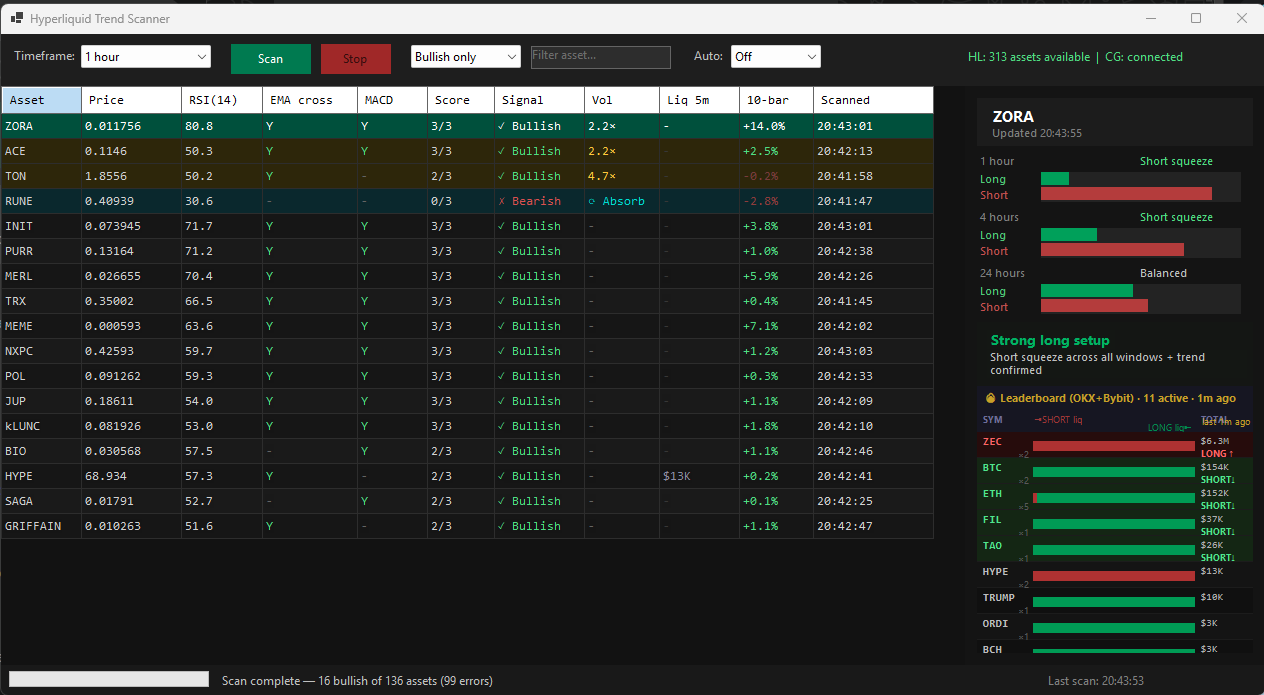
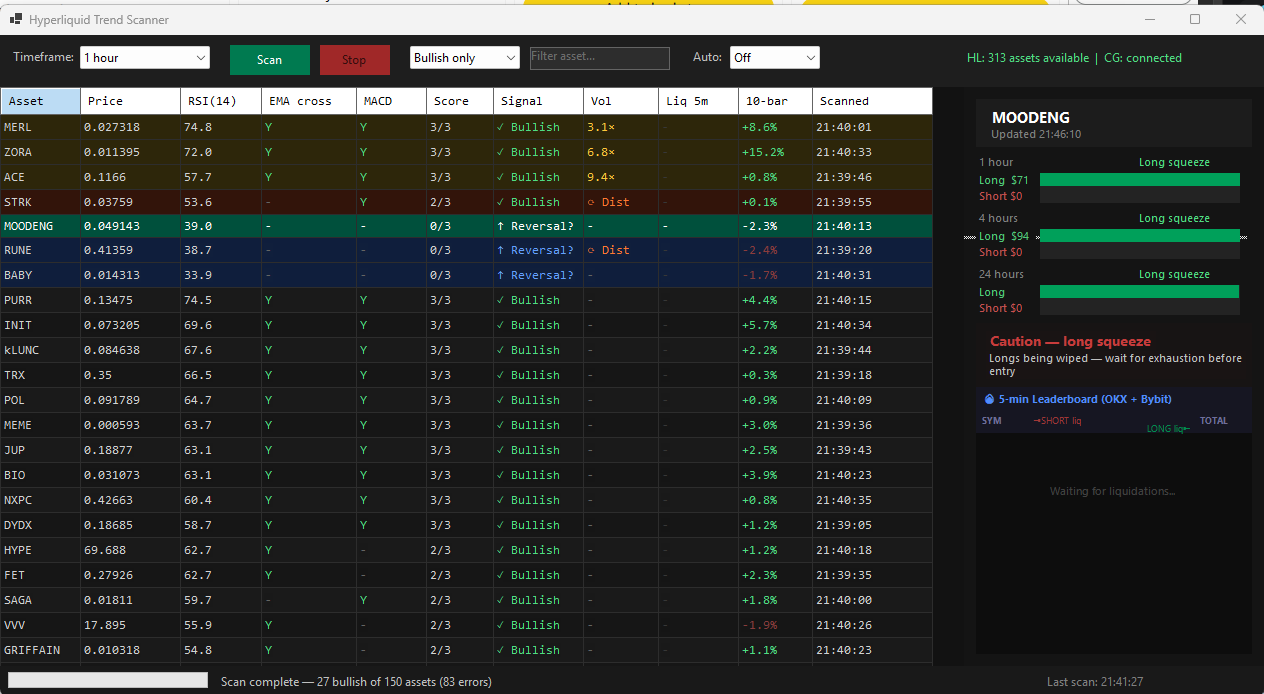
Add Reversal Setup signal for oversold assets showing early recovery
Detects assets that are beaten down (RSI < 40, 10-bar trend negative)
but showing early momentum shift (RSI slope flattening, last candle green).
Surfaces as blue "↑ Reversal?" signal in the Bullish only filter.

diff --git a/HyperliquidScanner/Services/TrendAnalyser.cs b/HyperliquidScanner/Services/TrendAnalyser.cs
@@ -164,6 +164,24 @@ namespace HyperliquidScanner.Services
                 }
             }
 
+            // ── Reversal setup: oversold but momentum turning ─────────────────
+            // Conditions (all must hold):
+            //   1. RSI oversold (< 40) — beaten down
+            //   2. RSI slope turning positive — momentum shifting up
+            //   3. 10-bar trend negative — asset has been falling (context: not just pausing)
+            //   4. Last complete candle is green — early price recovery
+            // Not flagged if already bullish (it would be redundant).
+            if (!result.IsBullish && quotes.Count >= 12)
+            {
+                var lastComplete = quotes[^2];
+                var lastCandleGreen = lastComplete.Close > lastComplete.Open;
+
+                result.IsReversalSetup = result.Rsi < 40m
+                                      && result.RsiSlope > -1m
+                                      && result.RecentTrendPct < -1.5m
+                                      && lastCandleGreen;
+            }
+
             return result;
         }
     }

diff --git a/HyperliquidScanner/Forms/MainForm.cs b/HyperliquidScanner/Forms/MainForm.cs
@@ -460,7 +460,7 @@ namespace HyperliquidScanner.Forms
             // Base filter — directional alerts punch through their matching filter only
             var toShow = _filterCombo.SelectedIndex switch
             {
-                1 => _lastResults.Where(r => r.IsBullish || r.IsAbsorption || r.IsClimax),  // Bullish + reversal-up signals
+                1 => _lastResults.Where(r => r.IsBullish || r.IsAbsorption || r.IsClimax || r.IsReversalSetup),  // Bullish + reversal-up signals
                 2 => _lastResults.Where(r => r.IsBearish || r.IsDistribution),              // Bearish + reversal-down signals
                 3 => _lastResults.Where(r => r.HasAlert),                                    // All alerts
                 _ => _lastResults                                                             // All assets
@@ -503,6 +503,8 @@ namespace HyperliquidScanner.Forms
                 _grid.Rows[idx].Tag = r;
                 if (r.IsClimax)
                     _grid.Rows[idx].DefaultCellStyle.BackColor = Color.FromArgb(40, 10, 55);  // dark purple — panic sell exhaustion
+                else if (r.IsReversalSetup)
+                    _grid.Rows[idx].DefaultCellStyle.BackColor = Color.FromArgb(15, 30, 60);  // dark blue — oversold reversal candidate
                 else if (r.IsAbsorption)
                     _grid.Rows[idx].DefaultCellStyle.BackColor = Color.FromArgb(10, 40, 45);  // teal  — quiet absorption
                 else if (r.IsDistribution)
@@ -522,8 +524,9 @@ namespace HyperliquidScanner.Forms
             if (col == "Signal")
             {
                 var sig = e.Value?.ToString() ?? "";
-                e.CellStyle.ForeColor = sig.Contains("Bullish") ? Color.FromArgb(80, 220, 130)
-                                      : sig.Contains("Bearish") ? Color.FromArgb(220, 80, 80)
+                e.CellStyle.ForeColor = sig.Contains("Bullish")  ? Color.FromArgb(80, 220, 130)
+                                      : sig.Contains("Reversal") ? Color.FromArgb(100, 160, 255)  // blue — oversold reversal candidate
+                                      : sig.Contains("Bearish")  ? Color.FromArgb(220, 80, 80)
                                       : Color.FromArgb(120, 120, 120);
             }
 

diff --git a/HyperliquidScanner/Models/HyperliquidModels.cs b/HyperliquidScanner/Models/HyperliquidModels.cs
@@ -74,10 +74,13 @@ namespace HyperliquidScanner.Models
         public decimal Cmf            { get; set; }  // Chaikin Money Flow (negative = selling, positive = buying)
         public decimal RecentTrendPct { get; set; }  // price change over last 10 complete candles (context: falling knife vs sudden flush)
 
-        public bool HasAlert => VolumeSpike || PriceSurge || IsAbsorption || IsDistribution || IsClimax;
+        public bool    IsReversalSetup { get; set; }  // oversold RSI turning up + green candle + beaten-down context
 
-        public string SignalLabel => IsBullish ? "✓ Bullish"
-                                  : IsBearish ? "✗ Bearish"
+        public bool HasAlert => VolumeSpike || PriceSurge || IsAbsorption || IsDistribution || IsClimax || IsReversalSetup;
+
+        public string SignalLabel => IsBullish        ? "✓ Bullish"
+                                  : IsReversalSetup  ? "↑ Reversal?"
+                                  : IsBearish        ? "✗ Bearish"
                                   : "–";
     }
 